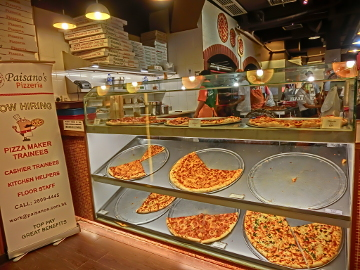
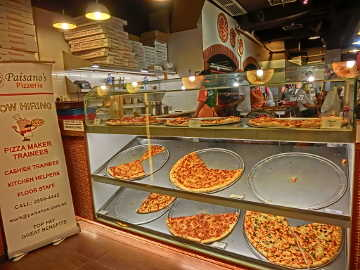
Optimize index.html:     Minify images     Resize and decrease quality on pizzeria.jpg     Fix renderblocking CSS and JS     Minimized HTML and inline CSS/JS

diff --git a/gulpfile.js b/gulpfile.js
@@ -1,22 +1,42 @@
 var gulp = require('gulp');
-var changed = require('gulp-changed');
 var imagemin = require('gulp-imagemin');
-var imageresize = require('gulp-image-resize');
+var inline = require('gulp-inline');
+var uglify = require('gulp-uglify');
+var minifyHTML = require('gulp-minify-html');
+var minifyCSS = require('gulp-minify-css');
 
-gulp.task('default', ['']);
+gulp.task('default', ['min_html']);
 
-gulp.task('min_images', function(){
-    min_img('img/**/*', 'dist/img');
-    min_img('views/images/**/*','dist/views/images');
+gulp.task('min_html', function(){
+    min_html_helper('*.html', 'dist');
+    min_html_helper('views/*.html', 'dist/views');
 });
 
-function min_img(src, dest){
+gulp.task('min_images', function(){
+    min_img_helper('img/**/*', 'dist/img');
+    min_img_helper('views/images/**/*','dist/views/images');
+});
+
+
+// Some helper functions for above
+
+function min_img_helper(src, dest){
     gulp.src(src)
         .pipe(imagemin())
         .pipe(gulp.dest(dest));
 }
 
-
+function min_html_helper(src,dest){
+    var opt = {
+        disabledTypes: ['svg', 'img', 'js'],
+        js: uglify,
+        css: minifyCSS
+        };
+    gulp.src(src)
+        .pipe(inline(opt))
+        .pipe(minifyHTML())
+        .pipe(gulp.dest(dest));
+}
 
 
 // end

diff --git a/project-mobile.html b/project-mobile.html
@@ -11,7 +11,7 @@
     <!-- <link href="//fonts.googleapis.com/css?family=Open+Sans:400,700" rel="stylesheet"> -->
 
     <link href="css/style.css" rel="stylesheet">
-    <link href="css/print.css" rel="stylesheet">
+    <link href="css/print.css" rel="stylesheet" media="print">
 
     <script>
       (function(w,g){w['GoogleAnalyticsObject']=g;
@@ -21,7 +21,7 @@
       ga('create', 'UA-XXXX-Y');
       ga('send', 'pageview');
     </script>
-    <script src="http://www.google-analytics.com/analytics.js"></script>
+    <script async src="http://www.google-analytics.com/analytics.js"></script>
     <script async src="js/perfmatters.js"></script>
   </head>
 
@@ -37,7 +37,7 @@
       </div>
 
       <div class="content">
-        
+
         <p>Bacon ipsum dolor sit amet et pork belly porchetta excepteur dolor, laborum laboris magna labore dolore in fugiat beef ribs. Fugiat leberkas nulla do kevin dolore. Flank hamburger dolor swine prosciutto sirloin pig jerky sunt consequat pariatur. Mollit meatloaf nostrud laboris shoulder excepteur velit officia meatball nisi turkey. Nulla jowl spare ribs, et drumstick magna frankfurter.</p>
 
         <img src="img/mobilewebdev.jpg">

diff --git a/project-webperf.html b/project-webperf.html
@@ -11,7 +11,7 @@
     <!-- <link href="//fonts.googleapis.com/css?family=Open+Sans:400,700" rel="stylesheet"> -->
 
     <link href="css/style.css" rel="stylesheet">
-    <link href="css/print.css" rel="stylesheet">
+    <link href="css/print.css" rel="stylesheet" media="print">
 
     <script>
       (function(w,g){w['GoogleAnalyticsObject']=g;
@@ -21,7 +21,7 @@
       ga('create', 'UA-XXXX-Y');
       ga('send', 'pageview');
     </script>
-    <script src="http://www.google-analytics.com/analytics.js"></script>
+    <script async src="http://www.google-analytics.com/analytics.js"></script>
     <script async src="js/perfmatters.js"></script>
   </head>
 
@@ -37,7 +37,7 @@
       </div>
 
       <div class="content">
-        
+
         <p>Thanks to everyone at Udacity and Google who made this class happen! Now for a very true meme and some <strike>lorem</strike> bacon ipsum.</p>
 
         <img src="img/cam_be_like.jpg">

diff --git a/index.html b/index.html
@@ -8,10 +8,10 @@
     <title>Cameron Pittman: Portfolio</title>
 
     <!-- Hmm, what is the impact of web fonts on speed? Measure it... -->
-    <link href="//fonts.googleapis.com/css?family=Open+Sans:400,700" rel="stylesheet">
+    <!-- <link href="//fonts.googleapis.com/css?family=Open+Sans:400,700" rel="stylesheet"> -->
 
     <link href="css/style.css" rel="stylesheet">
-    <link href="css/print.css" rel="stylesheet">
+    <link href="css/print.css" rel="stylesheet" media="print">
 
     <script>
       (function(w,g){w['GoogleAnalyticsObject']=g;
@@ -21,7 +21,7 @@
       ga('create', 'UA-XXXX-Y');
       ga('send', 'pageview');
     </script>
-    <script src="http://www.google-analytics.com/analytics.js"></script>
+    <script async src="http://www.google-analytics.com/analytics.js"></script>
     <script async src="js/perfmatters.js"></script>
   </head>
 

diff --git a/project-2048.html b/project-2048.html
@@ -11,7 +11,7 @@
     <!-- <link href="//fonts.googleapis.com/css?family=Open+Sans:400,700" rel="stylesheet"> -->
 
     <link href="css/style.css" rel="stylesheet">
-    <link href="css/print.css" rel="stylesheet">
+    <link href="css/print.css" rel="stylesheet" media="print">
 
     <script>
       (function(w,g){w['GoogleAnalyticsObject']=g;
@@ -21,8 +21,8 @@
       ga('create', 'UA-XXXX-Y');
       ga('send', 'pageview');
     </script>
-    <script src="//www.google-analytics.com/analytics.js"></script>
-    <script src="js/perfmatters.js"></script>
+    <script async src="//www.google-analytics.com/analytics.js"></script>
+    <script async src="js/perfmatters.js"></script>
   </head>
 
   <body>

diff --git a/README.md b/README.md
@@ -30,9 +30,25 @@ Some useful tips to help you get started:
 
 Profile, optimize, measure... and then lather, rinse, and repeat. Good luck!
 
+####Part 1a: Optimizations to index.html
+
+1. Optimized images
+    - Used gulp plugin 'gulp-imagemin'
+2. Resized pizzeria.jpg to 360x270
+    - Resized manually using GIMP because only 1 file needed to be resized
+    - Used GIMP to further minimize pizzeria.jpg by turning down the jpg quality from 98 to 50.
+3. Fixed render blocking Javascript
+    - Made analytics.js and perfmatters.js asynchronous
+4. Fixed render blocking CSS
+    - Removed the unnecessary stylesheet for Google fonts
+5. Inlined CSS
+    - Used gulp plugin 'gulp-inline'
+6. Minimized the following: HTML, inline CSS, and inline JavaScript
+    - Used gulp plugins 'gulp-inline' 'gulp-uglify' 'gulp-minify-css' 'gulp-minify-html'
+
 ####Part 2: Optimize Frames per Second in pizza.html
 
-To optimize views/pizza.html, you will need to modify views/js/main.js until your frames per second rate is 60 fps or higher. You will find instructive comments in main.js. 
+To optimize views/pizza.html, you will need to modify views/js/main.js until your frames per second rate is 60 fps or higher. You will find instructive comments in main.js.
 
 You might find the FPS Counter/HUD Display useful in Chrome developer tools described here: [Chrome Dev Tools tips-and-tricks](https://developer.chrome.com/devtools/docs/tips-and-tricks).
 
